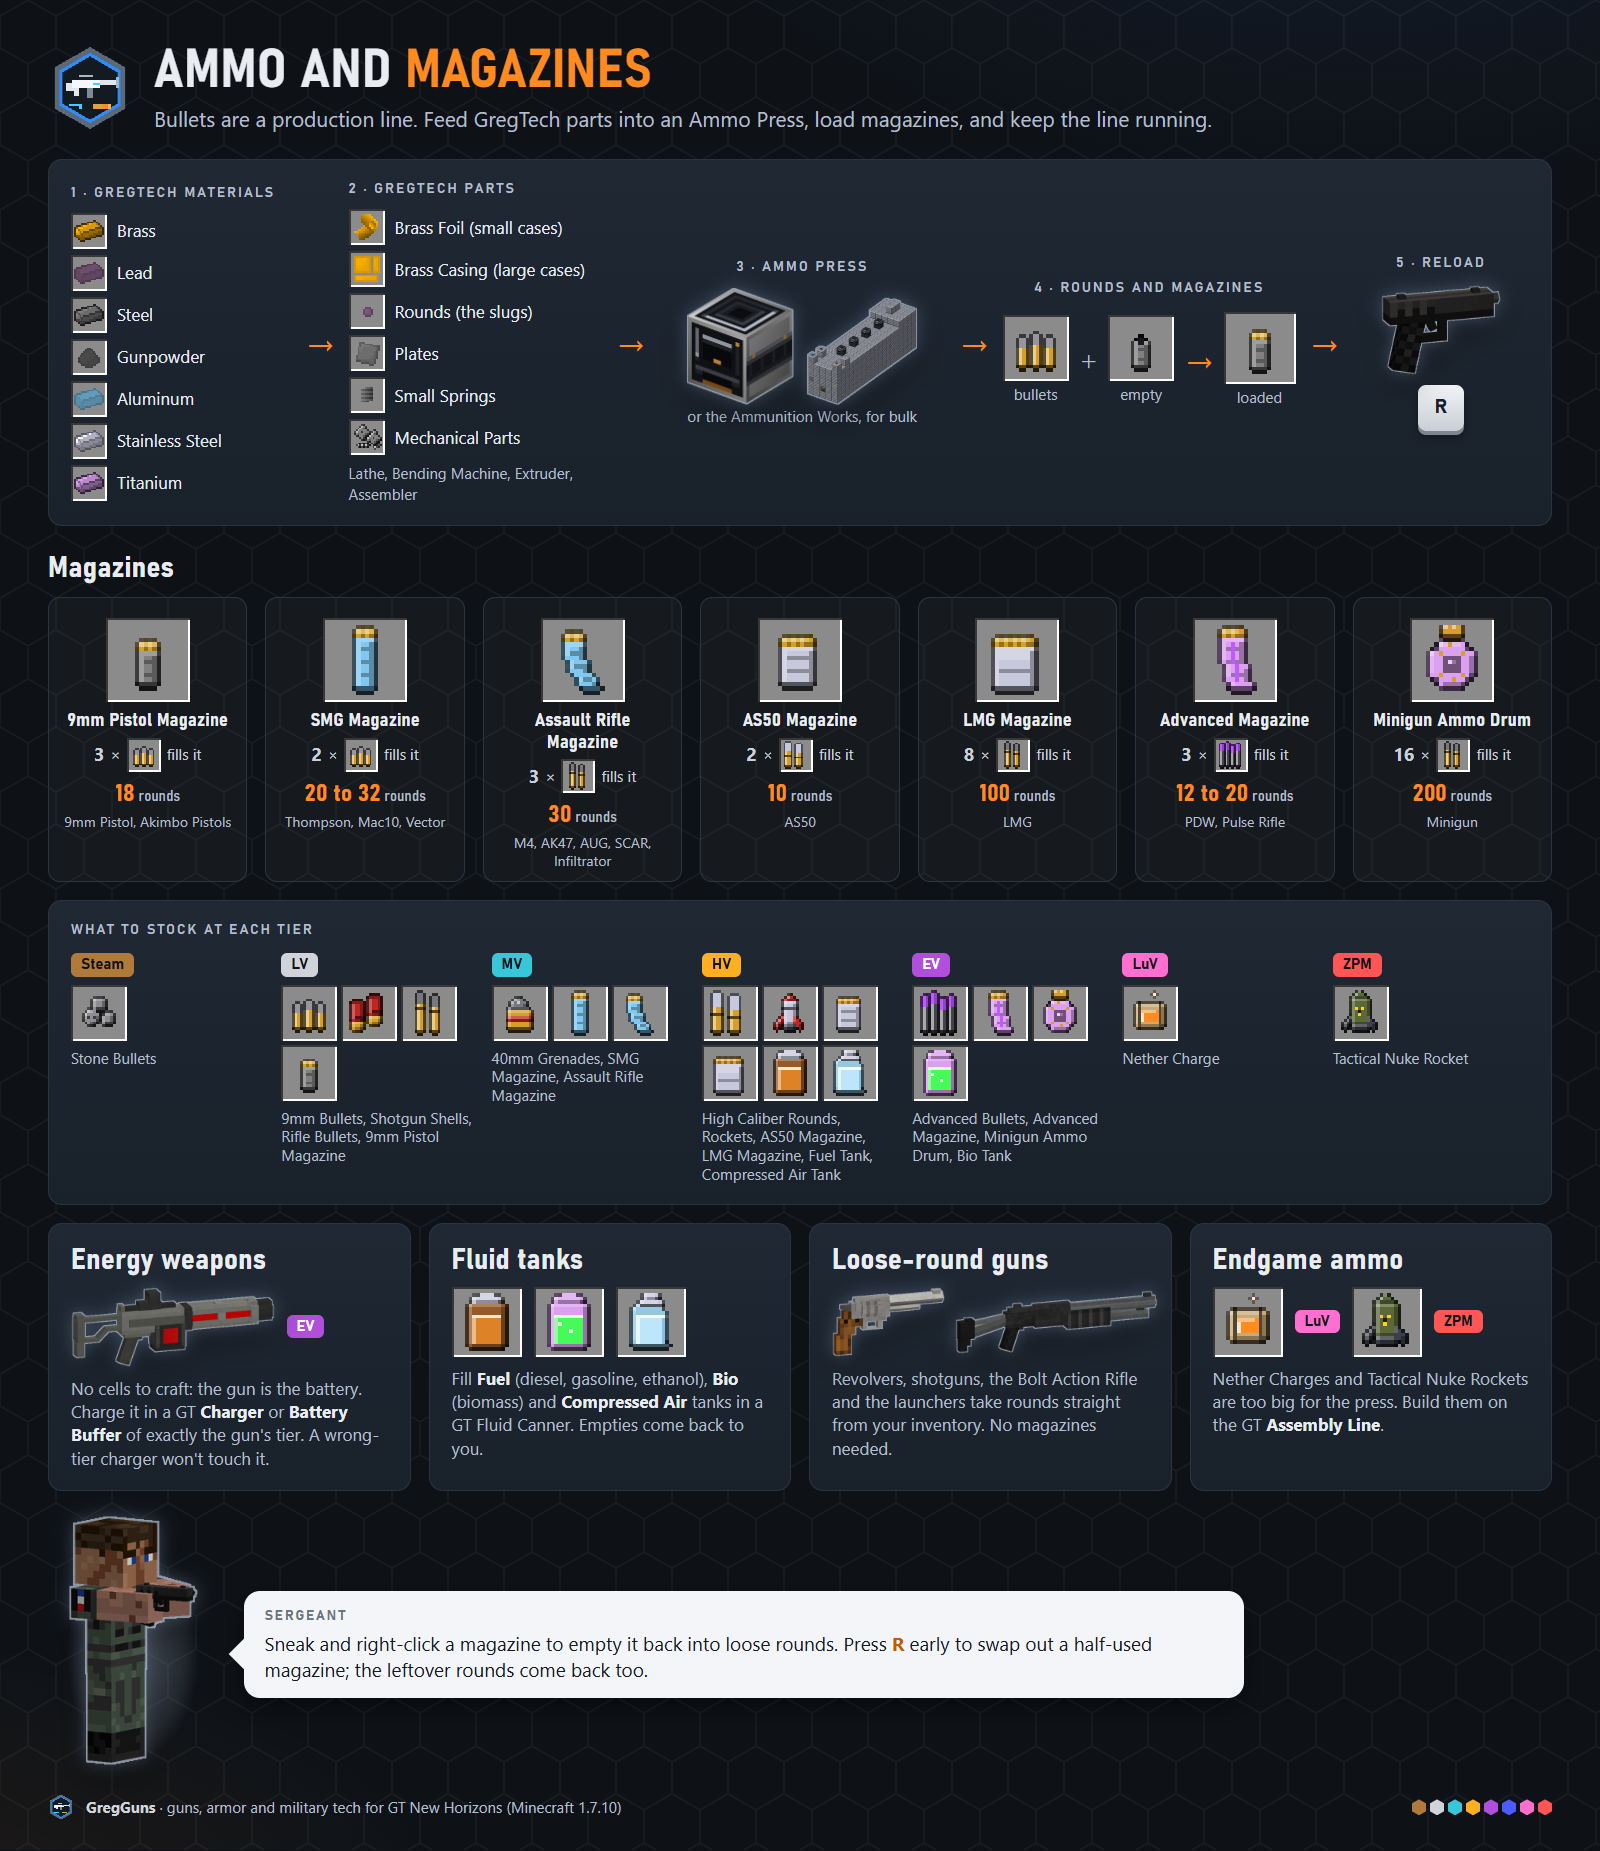
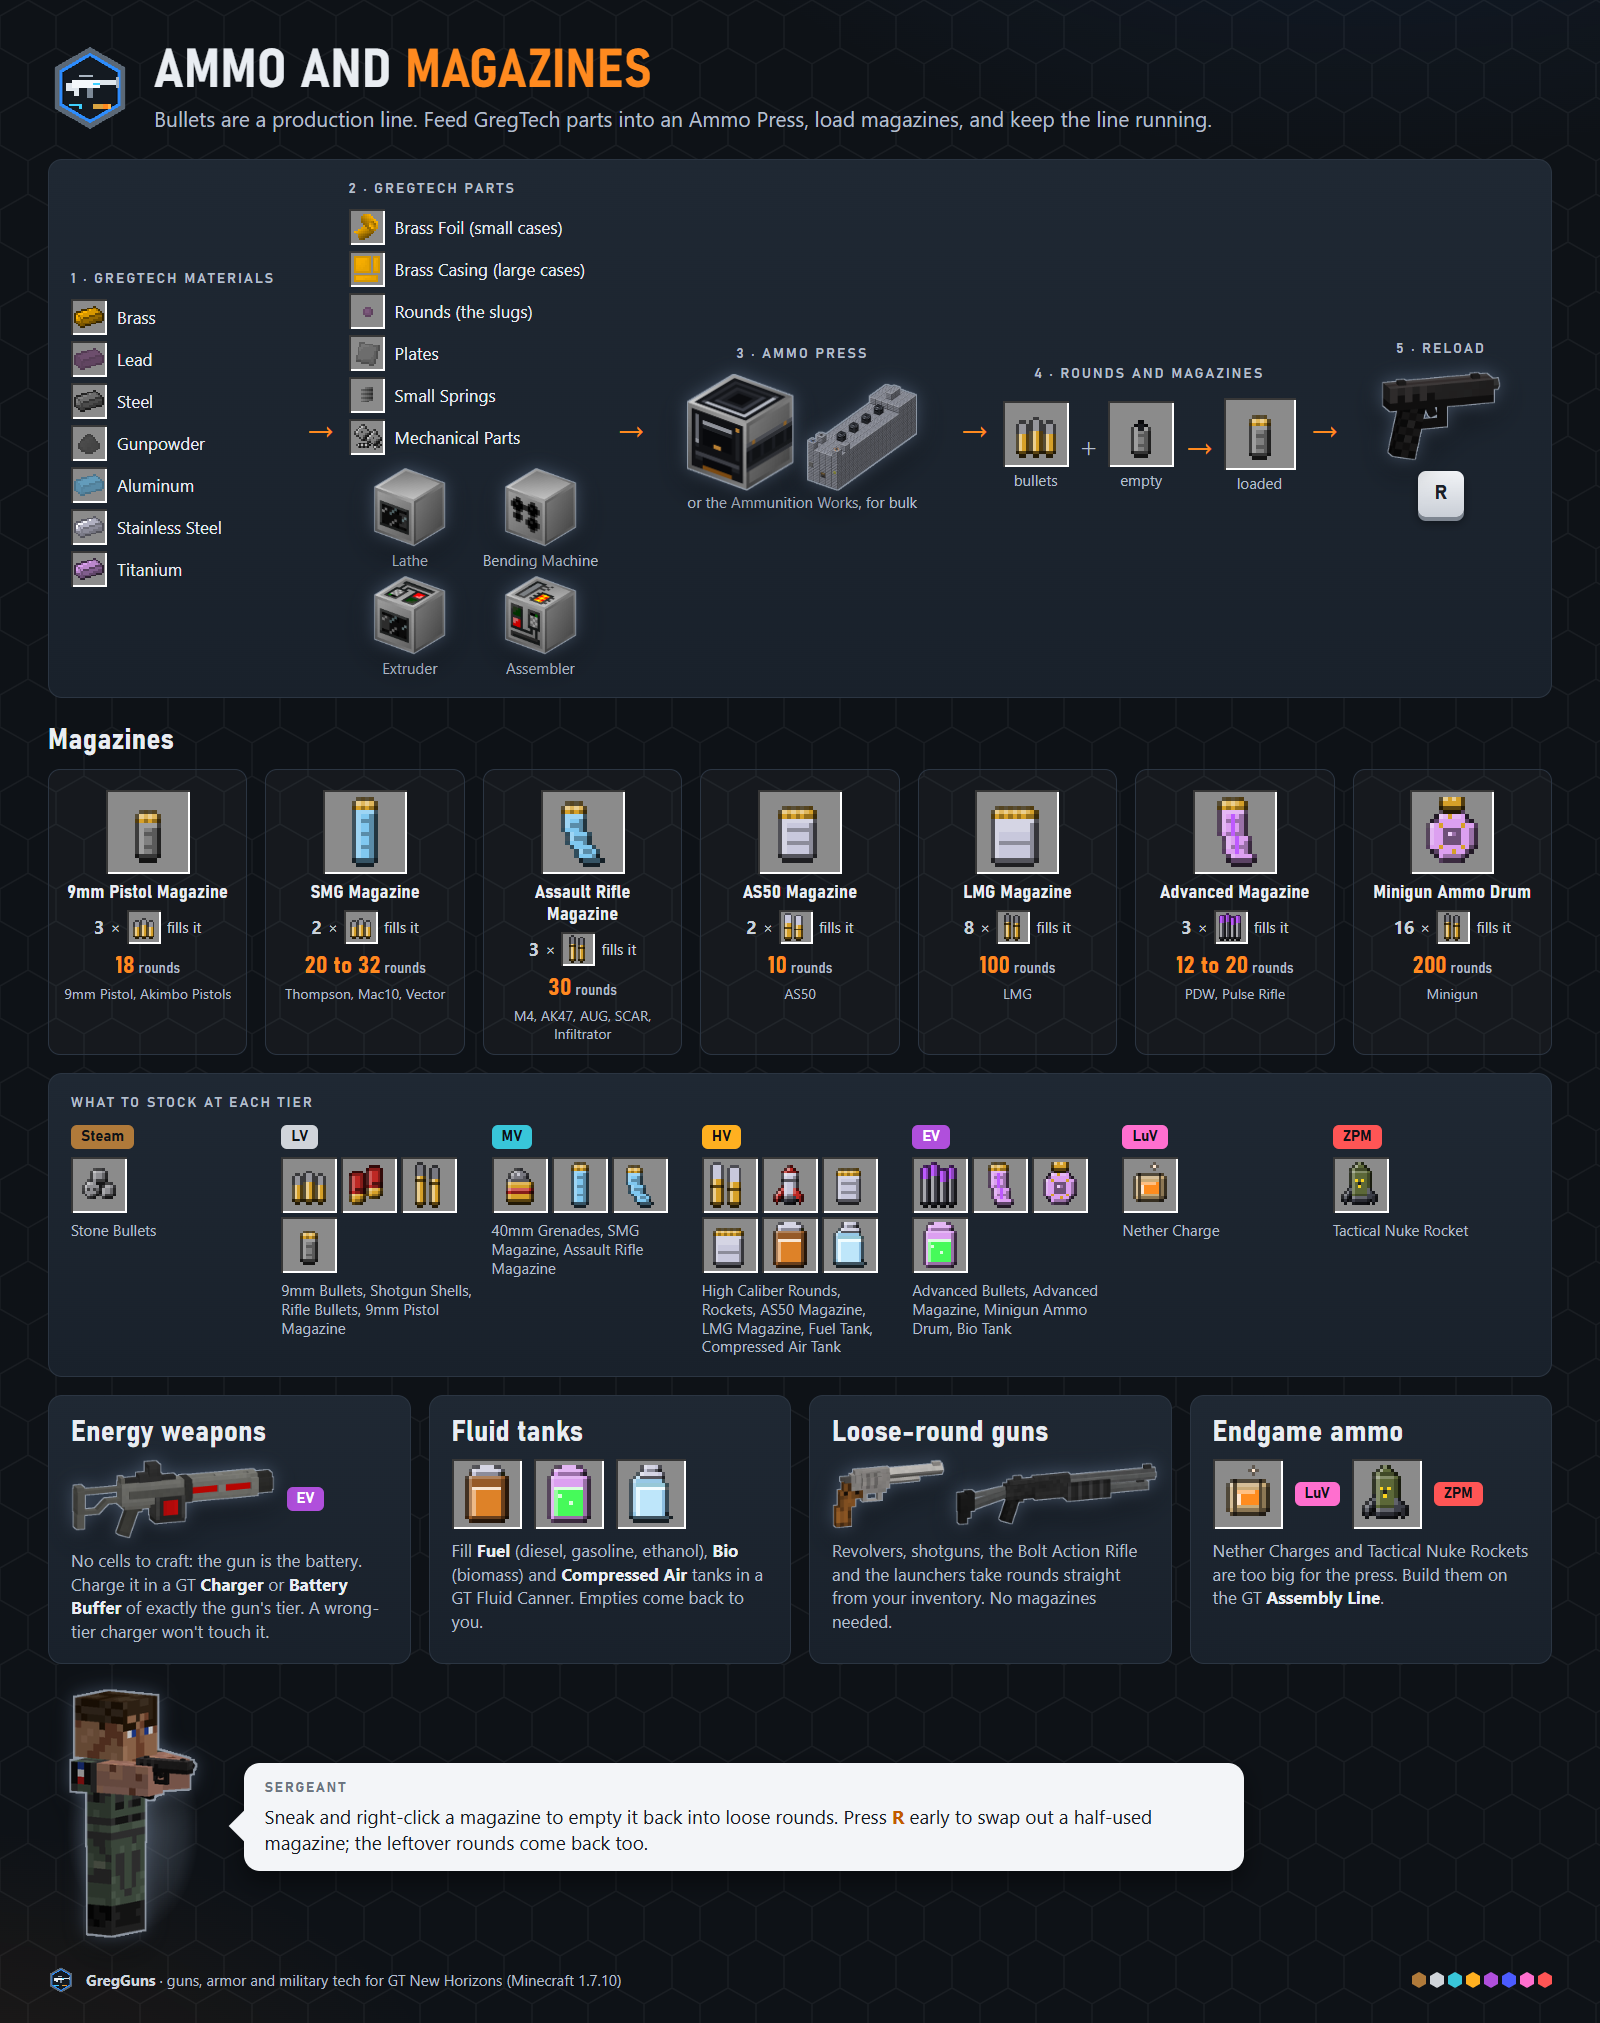
Show the GT machines that make ammo parts on the ammo sheet
The parts step named the Lathe, Bending Machine, Extruder and Assembler
in text; it now renders each as an LV single block, built from GT's own
basic machine overlays on the LV hull, at the Ammo Press's isometric view.

diff --git a/tools/asset-gen/infographics/pages_more.py b/tools/asset-gen/infographics/pages_more.py
@@ -48,11 +48,15 @@ def ammo():
         for k, m, n in (("foil", "Brass", "Brass Foil (small cases)"), ("casingSmall", "Brass", "Brass Casing (large cases)"),
                         ("round", "Lead", "Rounds (the slugs)"), ("plate", "Steel", "Plates"),
                         ("springSmall", "Steel", "Small Springs")))
+    gt_machines = "".join(
+        f'<div class="stack">{img(S.machine_block(m, "LV", greg=True), h=80)}<small>{n}</small></div>'
+        for m, n in (("lathe", "Lathe"), ("bender", "Bending Machine"), ("extruder", "Extruder"),
+                     ("assembler", "Assembler")))
     flow = f"""<div class="card" style="display:grid;grid-template-columns:1fr auto 1.15fr auto 1.3fr auto 1.25fr auto .8fr;align-items:center;gap:14px">
 <div><div class="label">1 &middot; GregTech materials</div><div style="margin-top:10px;display:flex;flex-direction:column;gap:6px;font-size:17px">{mats}</div></div>{arrow}
 <div><div class="label">2 &middot; GregTech parts</div><div style="margin-top:10px;font-size:17px;display:flex;flex-direction:column;gap:6px">{parts}
 <div style="display:flex;align-items:center;gap:10px">{ico("part_mechanical_2", 30)}Mechanical Parts</div></div>
-<div class="muted" style="font-size:15px;margin-top:8px">Lathe, Bending Machine, Extruder, Assembler</div></div>{arrow}
+<div style="display:grid;grid-template-columns:1fr 1fr;gap:6px 8px;margin-top:12px">{gt_machines}</div></div>{arrow}
 <div style="text-align:center"><div class="label">3 &middot; Ammo Press</div>
 <div style="display:flex;align-items:flex-end;justify-content:center;gap:10px;margin-top:8px">{img(S.machine_block("ammo_press", "LV"), h=120)}{img(S.ammo_works(4).render(ppu=14), h=110)}</div>
 <div class="muted" style="font-size:15px">or the Ammunition Works, for bulk</div></div>{arrow}

diff --git a/tools/asset-gen/infographics/scenes.py b/tools/asset-gen/infographics/scenes.py
@@ -25,18 +25,22 @@ def _ov(machine, face):
     return p if p.exists() else None
 
 
-def machine_block(machine: str, tier: str, active=False) -> K.Path:
-    """A single block GT machine: a tier hull with the GregGuns overlays."""
+def machine_block(machine: str, tier: str, active=False, greg=False) -> K.Path:
+    """A single block GT machine: a tier hull with the GregGuns overlays, or with GregTech's own basic machine
+    overlays when greg is set (machine is then GT's folder name: lathe, bender, extruder, assembler...)."""
     sfx = "_ACTIVE" if active else ""
+    ov_of = gt.machine_overlay if greg else _ov
     faces = {}
     for face in ("FRONT", "SIDE", "TOP"):
         hull = gt.hull(tier, "TOP" if face == "TOP" else "SIDE")
-        ov = _ov(machine, face + sfx) or _ov(machine, face)
-        glow = _ov(machine, face + "_ACTIVE_GLOW") if active else None
-        faces[face] = B.composite(hull, ov, glow, cache=K.TEXCACHE, name=f"{machine}_{tier}_{face}{sfx}")
+        ov = ov_of(machine, face + sfx) or ov_of(machine, face)
+        # GT draws a face's glow layer at full brightness, so the idle glow shows on an idle machine too.
+        glow = ov_of(machine, face + ("_ACTIVE_GLOW" if active else "_GLOW"))
+        faces[face] = B.composite(hull, ov, glow, cache=K.TEXCACHE,
+                                  name=f"{'gt-' if greg else ''}{machine}_{tier}_{face}{sfx}")
     blocks_ = {(0, 0, 0): ("m", FRONT)}
     tex = {"m": (faces["TOP"], faces["SIDE"], faces["FRONT"])}
-    return K.voxels(f"machine-{machine}-{tier}{sfx}", blocks_, tex, yaw=-38, pitch=28, ppu=150)
+    return K.voxels(f"machine-{'gt-' if greg else ''}{machine}-{tier}{sfx}", blocks_, tex, yaw=-38, pitch=28, ppu=150)
 
 
 # ---------------------------------------------------------------- turret

diff --git a/tools/asset-gen/infographics/gt.py b/tools/asset-gen/infographics/gt.py
@@ -100,6 +100,12 @@ def iconset(name: str) -> Path:
     return _save(_read(f"assets/gregtech/textures/blocks/iconsets/{name}.png"), name)
 
 
+def machine_overlay(machine: str, face: str) -> Path | None:
+    """A GregTech basic machine's face overlay (basicmachines/<machine>/OVERLAY_<face>), or None if it has none."""
+    name = f"assets/gregtech/textures/blocks/basicmachines/{machine}/OVERLAY_{face}.png"
+    return _save(_read(name), f"bm-{machine}-{face}") if _has(name) else None
+
+
 def bartworks(name: str) -> Path:
     return _save(_read(f"assets/bartworks/textures/blocks/{name}.png"), f"bw-{name}")
 

diff --git a/docs/assets/MANIFEST.md b/docs/assets/MANIFEST.md
@@ -948,7 +948,7 @@ The machine-readable twin is [tools/asset-gen/manifest.json](../../tools/asset-g
 | `info.getting_started` | `docs/assets/infographics/getting-started.png` | 1600x1602 | Player guide: the first six steps, from the Hand Cannon to a magazine-fed pistol, plus default keys. Built by tools/asset-gen/infographics/build.py; no vector source. [Delivered: generated by tools/asset-gen/infographics/build.py.] | #808080 #FF8000 #101418 #F2F2F2 | (new) | P2 |
 | `info.arsenal_steam_to_hv` | `docs/assets/infographics/arsenal-steam-to-hv.png` | 1600x3052 | Player guide: every weapon from Steam to HV, rendered, with role and ammo. Built by tools/asset-gen/infographics/build.py; no vector source. [Delivered: generated by tools/asset-gen/infographics/build.py.] | #808080 #FF8000 #101418 #F2F2F2 | (new) | P2 |
 | `info.arsenal_ev_to_zpm` | `docs/assets/infographics/arsenal-ev-to-zpm.png` | 1600x2294 | Player guide: every weapon from EV to ZPM, rendered, with role and ammo or charge. Built by tools/asset-gen/infographics/build.py; no vector source. [Delivered: generated by tools/asset-gen/infographics/build.py.] | #808080 #FF8000 #101418 #F2F2F2 | (new) | P2 |
-| `info.ammo_and_magazines` | `docs/assets/infographics/ammo-and-magazines.png` | 1600x1851 | Player guide: GT materials to parts to the Ammo Press to magazines; magazine sizes; ammo per tier. Built by tools/asset-gen/infographics/build.py; no vector source. [Delivered: generated by tools/asset-gen/infographics/build.py.] | #808080 #FF8000 #101418 #F2F2F2 | (new) | P2 |
+| `info.ammo_and_magazines` | `docs/assets/infographics/ammo-and-magazines.png` | 1600x2023 | Player guide: GT materials to parts to the Ammo Press to magazines; magazine sizes; ammo per tier. Built by tools/asset-gen/infographics/build.py; no vector source. [Delivered: generated by tools/asset-gen/infographics/build.py.] | #808080 #FF8000 #101418 #F2F2F2 | (new) | P2 |
 | `info.armor_and_gear` | `docs/assets/infographics/armor-and-gear.png` | 1600x2101 | Player guide: the twelve armor sets on figures, masks and back gear, damage types. Built by tools/asset-gen/infographics/build.py; no vector source. [Delivered: generated by tools/asset-gen/infographics/build.py.] | #808080 #FF8000 #101418 #F2F2F2 | (new) | P2 |
 | `info.machines` | `docs/assets/infographics/machines.png` | 1600x1721 | Player guide: each single block machine beside its multiblock, rendered. Built by tools/asset-gen/infographics/build.py; no vector source. [Delivered: generated by tools/asset-gen/infographics/build.py.] | #808080 #FF8000 #101418 #F2F2F2 | (new) | P2 |
 | `info.multiblock_ammunition_works` | `docs/assets/infographics/multiblock-ammunition-works.png` | 1600x1964 | Build guide: Ammunition Works, with block counts, sections, hatches and scaling. Built by tools/asset-gen/infographics/build.py; no vector source. [Delivered: generated by tools/asset-gen/infographics/build.py.] | #808080 #FF8000 #101418 #F2F2F2 | (new) | P3 |
